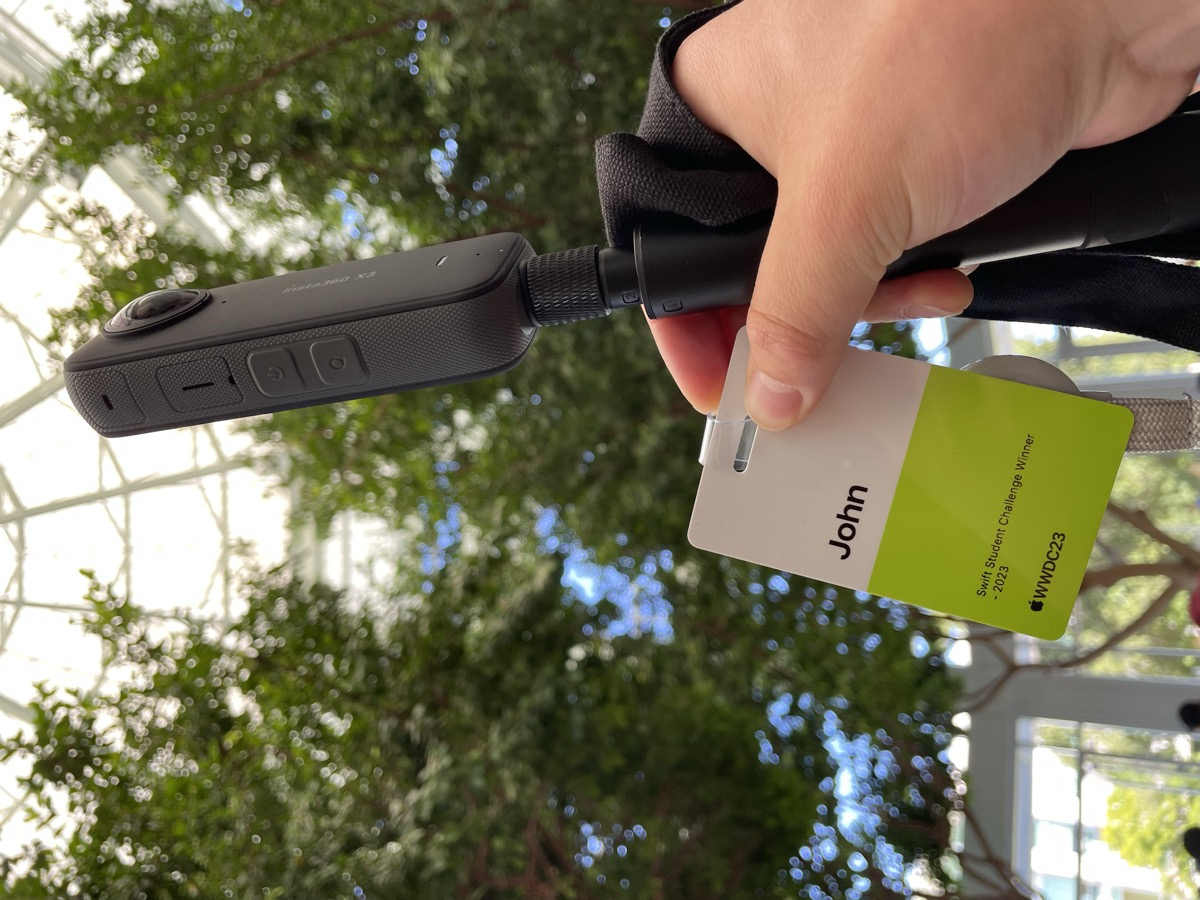
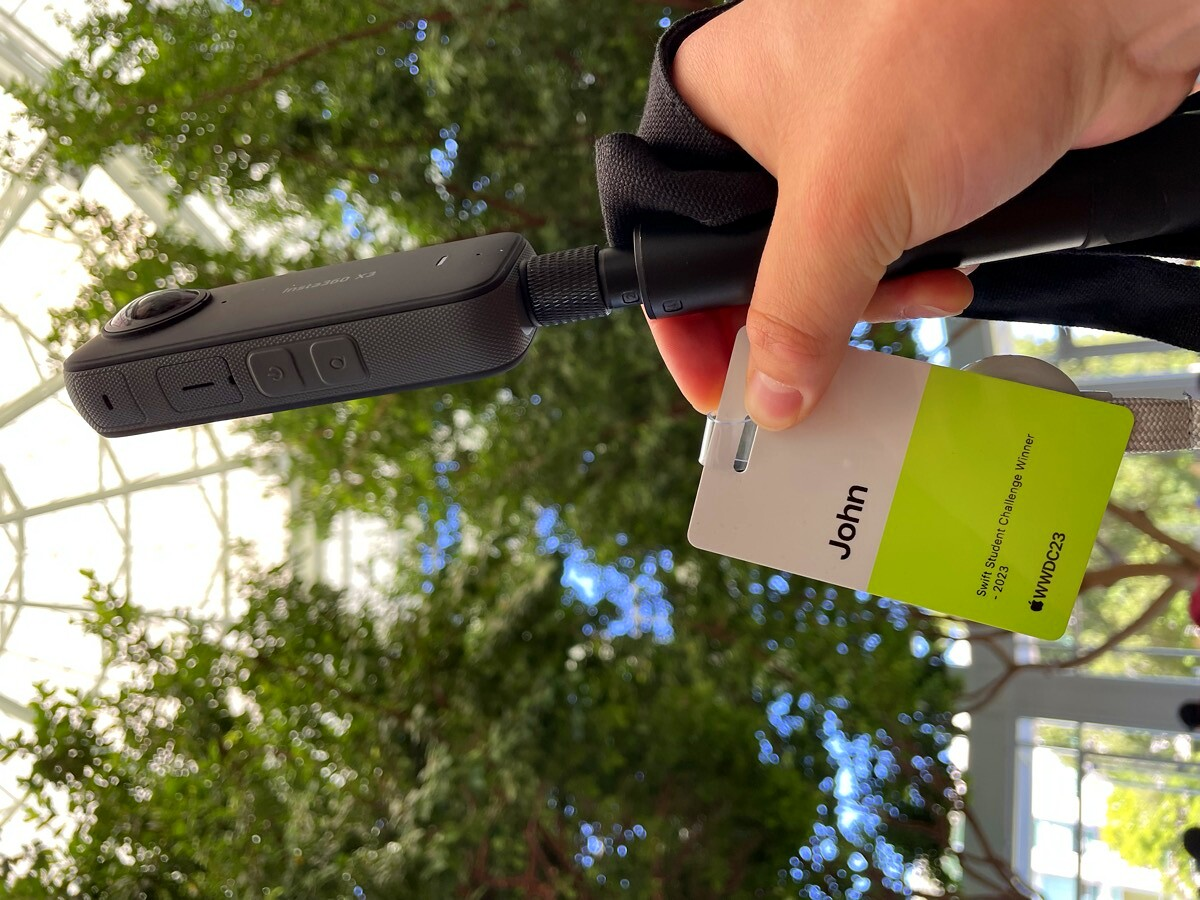
Lay out 5 ElectronVisualized images efficiently; saturate + rotate the two HEIC stills
Row 1: book cover + Atomizer screens (portrait pair)
Row 2: ElectronVisualized stills 1+2 (landscape pair)
Row 3: preface credit, full-width on white card (atomizer-screens sits above per requirement)

Also: rotate electronvis-1.jpg 180deg (was upside down) and bump saturation
+35% on both electronvis-* via ImageMagick (HEIC->JPG roundtrip looked flat).

Changed region(s): [[0.7092, 0.4356, 0.8942, 0.6844], [0.925, 0.9022, 0.9558, 0.9333], [0.5858, 0.4356, 0.6167, 0.4667]]

diff --git a/app/page.tsx b/app/page.tsx
@@ -912,15 +912,46 @@ export default function Portfolio() {
         id="section-electron"
         className="w-full scroll-mt-24 rounded-2xl border border-white/10 bg-black/60 p-6 shadow-lg sm:p-8"
       >
-        <div className="mb-6 space-y-4">
-          <Image
-            src="/walter-kohn-cover.png"
-            alt="Walter Kohn — From Kindertransport and Internment to DFT and the Nobel Prize (David C. Clary). Front cover features John Wonmo Seong's DFT electron density visualisation."
-            width={460}
-            height={500}
-            className="mx-auto h-56 w-auto rounded-lg ring-1 ring-white/15 sm:h-64"
-            sizes="(max-width: 640px) 60vw, 16rem"
-          />
+        <div className="mb-6 space-y-3 sm:space-y-4">
+          {/* Row 1: book cover (portrait) + Atomizer screens (portrait) side by side */}
+          <div className="grid grid-cols-2 gap-3 sm:gap-4">
+            <Image
+              src="/walter-kohn-cover.png"
+              alt="Walter Kohn — From Kindertransport and Internment to DFT and the Nobel Prize (David C. Clary). Front cover features John Wonmo Seong's DFT electron density visualisation."
+              width={865}
+              height={947}
+              className="h-full w-full rounded-lg object-cover ring-1 ring-white/15"
+              sizes="(max-width: 640px) 45vw, 20rem"
+            />
+            <Image
+              src="/atomizer-screens.jpg"
+              alt="Atomizer AR — 2023 Swift Student Challenge Winner; iron (Fe) and sodium (Na) electron configurations rendered in real time on iPhone"
+              width={1077}
+              height={1400}
+              className="h-full w-full rounded-lg object-cover ring-1 ring-white/15"
+              sizes="(max-width: 640px) 45vw, 20rem"
+            />
+          </div>
+          {/* Row 2: two ElectronVisualized stills (landscape 4:3) */}
+          <div className="grid grid-cols-2 gap-3 sm:gap-4">
+            <Image
+              src="/electronvis-1.jpg"
+              alt="ElectronVisualized DFT visualisation"
+              width={1200}
+              height={900}
+              className="h-full w-full rounded-lg object-cover ring-1 ring-white/15"
+              sizes="(max-width: 640px) 45vw, 20rem"
+            />
+            <Image
+              src="/electronvis-2.jpg"
+              alt="ElectronVisualized molecular orbital render"
+              width={1200}
+              height={900}
+              className="h-full w-full rounded-lg object-cover ring-1 ring-white/15"
+              sizes="(max-width: 640px) 45vw, 20rem"
+            />
+          </div>
+          {/* Row 3: preface credit, full width on a white card */}
           <a
             href="https://www.worldscientific.com/doi/suppl/10.1142/13806/suppl_file/13806_preface.pdf"
             target="_blank"
@@ -931,30 +962,12 @@ export default function Portfolio() {
             <Image
               src="/walter-kohn-preface.png"
               alt="Front cover credit: Adapted from an electron density map for the hydrogen molecule calculated with Density Functional Theory (courtesy of John Wonmo Seong)"
-              width={1200}
-              height={300}
+              width={1008}
+              height={256}
               className="h-auto w-full object-contain"
-              sizes="(max-width: 640px) 100vw, 40rem"
+              sizes="(max-width: 640px) 100vw, 42rem"
             />
           </a>
-          <div className="grid grid-cols-2 gap-3 sm:gap-4">
-            <Image
-              src="/electronvis-1.jpg"
-              alt="ElectronVisualized DFT visualisation"
-              width={1200}
-              height={1600}
-              className="h-full w-full rounded-lg object-cover ring-1 ring-white/15"
-              sizes="(max-width: 640px) 45vw, 20rem"
-            />
-            <Image
-              src="/electronvis-2.jpg"
-              alt="ElectronVisualized molecular orbital render"
-              width={1200}
-              height={1600}
-              className="h-full w-full rounded-lg object-cover ring-1 ring-white/15"
-              sizes="(max-width: 640px) 45vw, 20rem"
-            />
-          </div>
         </div>
         <div className="mb-3 inline-flex items-center gap-2 rounded-full border border-amber-300/40 bg-amber-300/[0.06] px-3 py-1 text-[10px] font-semibold uppercase tracking-[0.22em] text-amber-200">
           <span aria-hidden className="text-amber-300">★</span>
